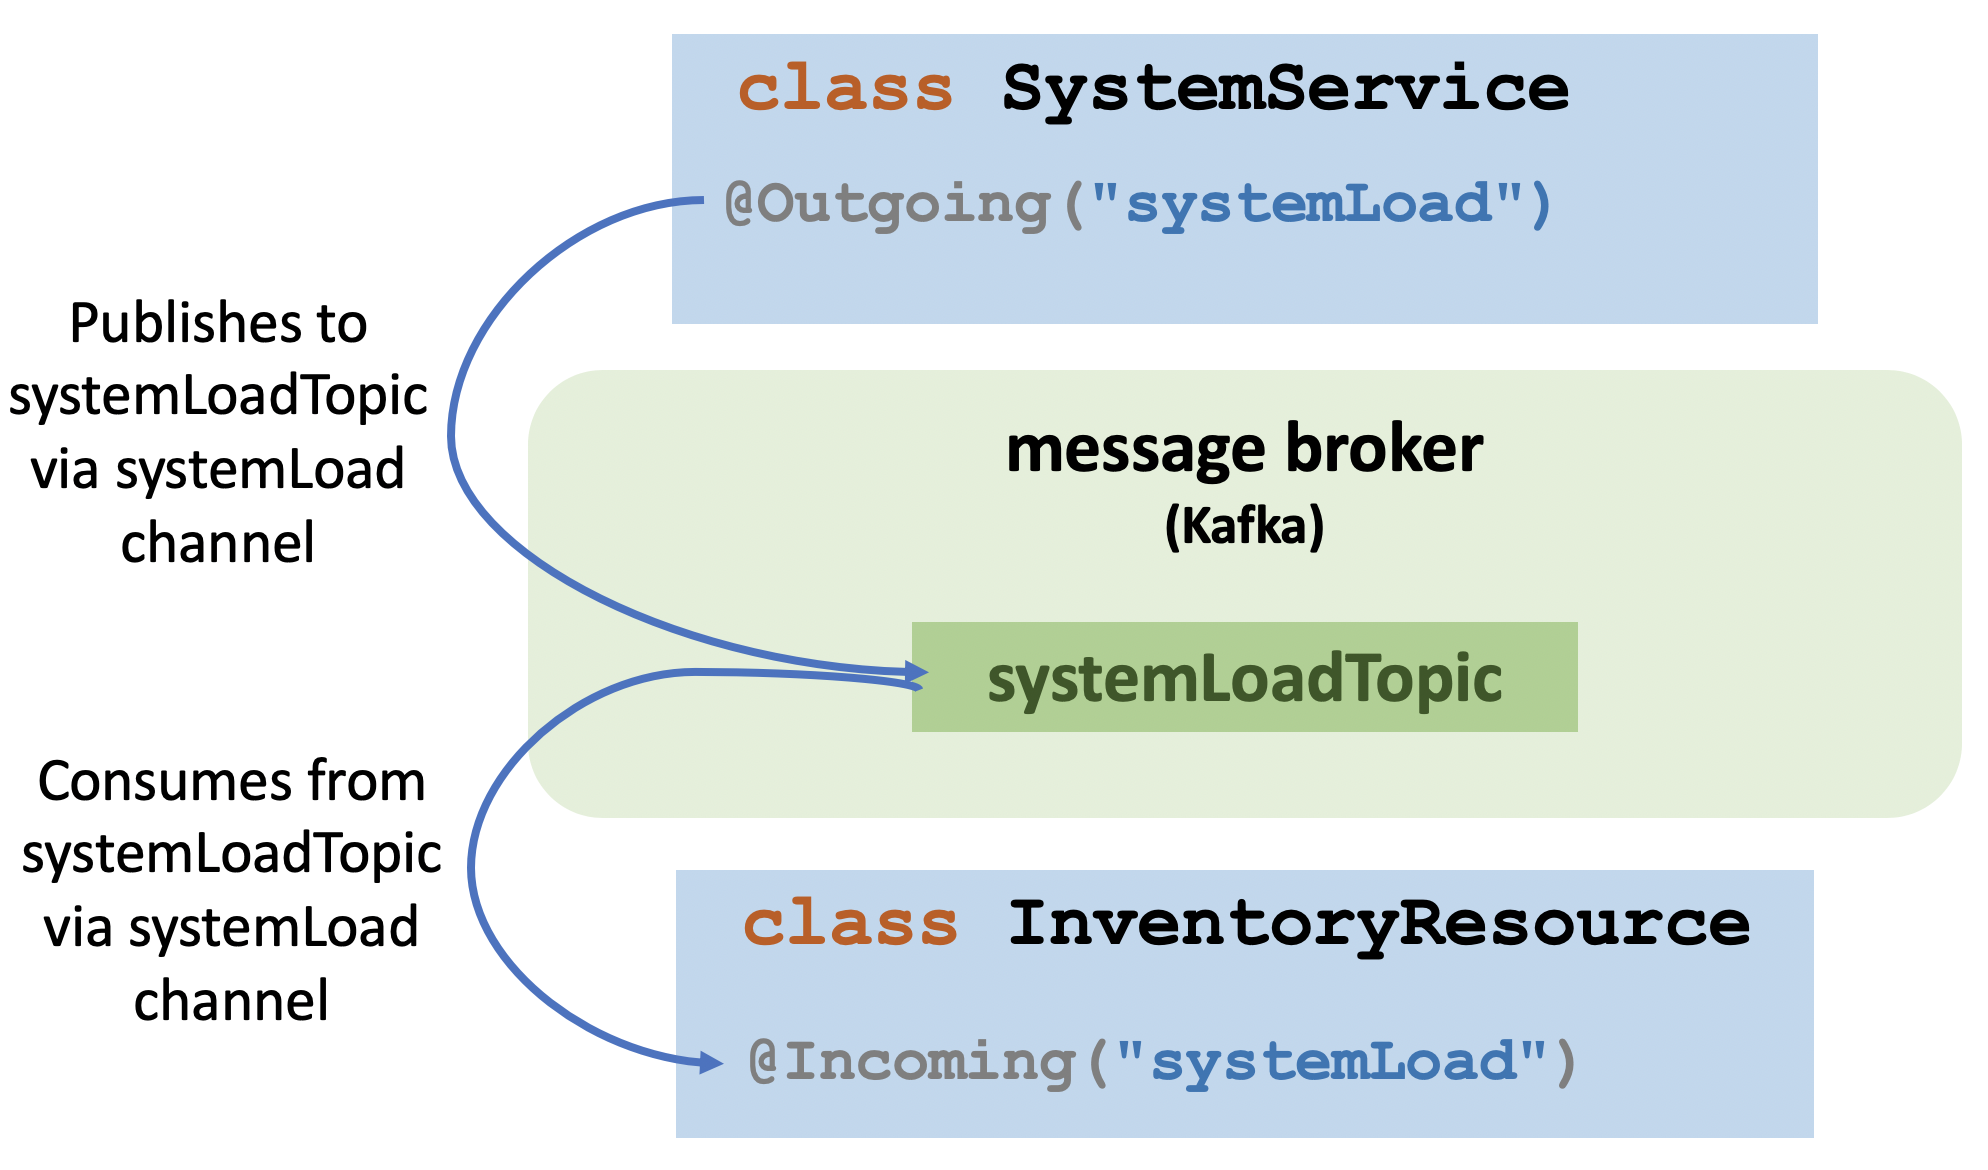
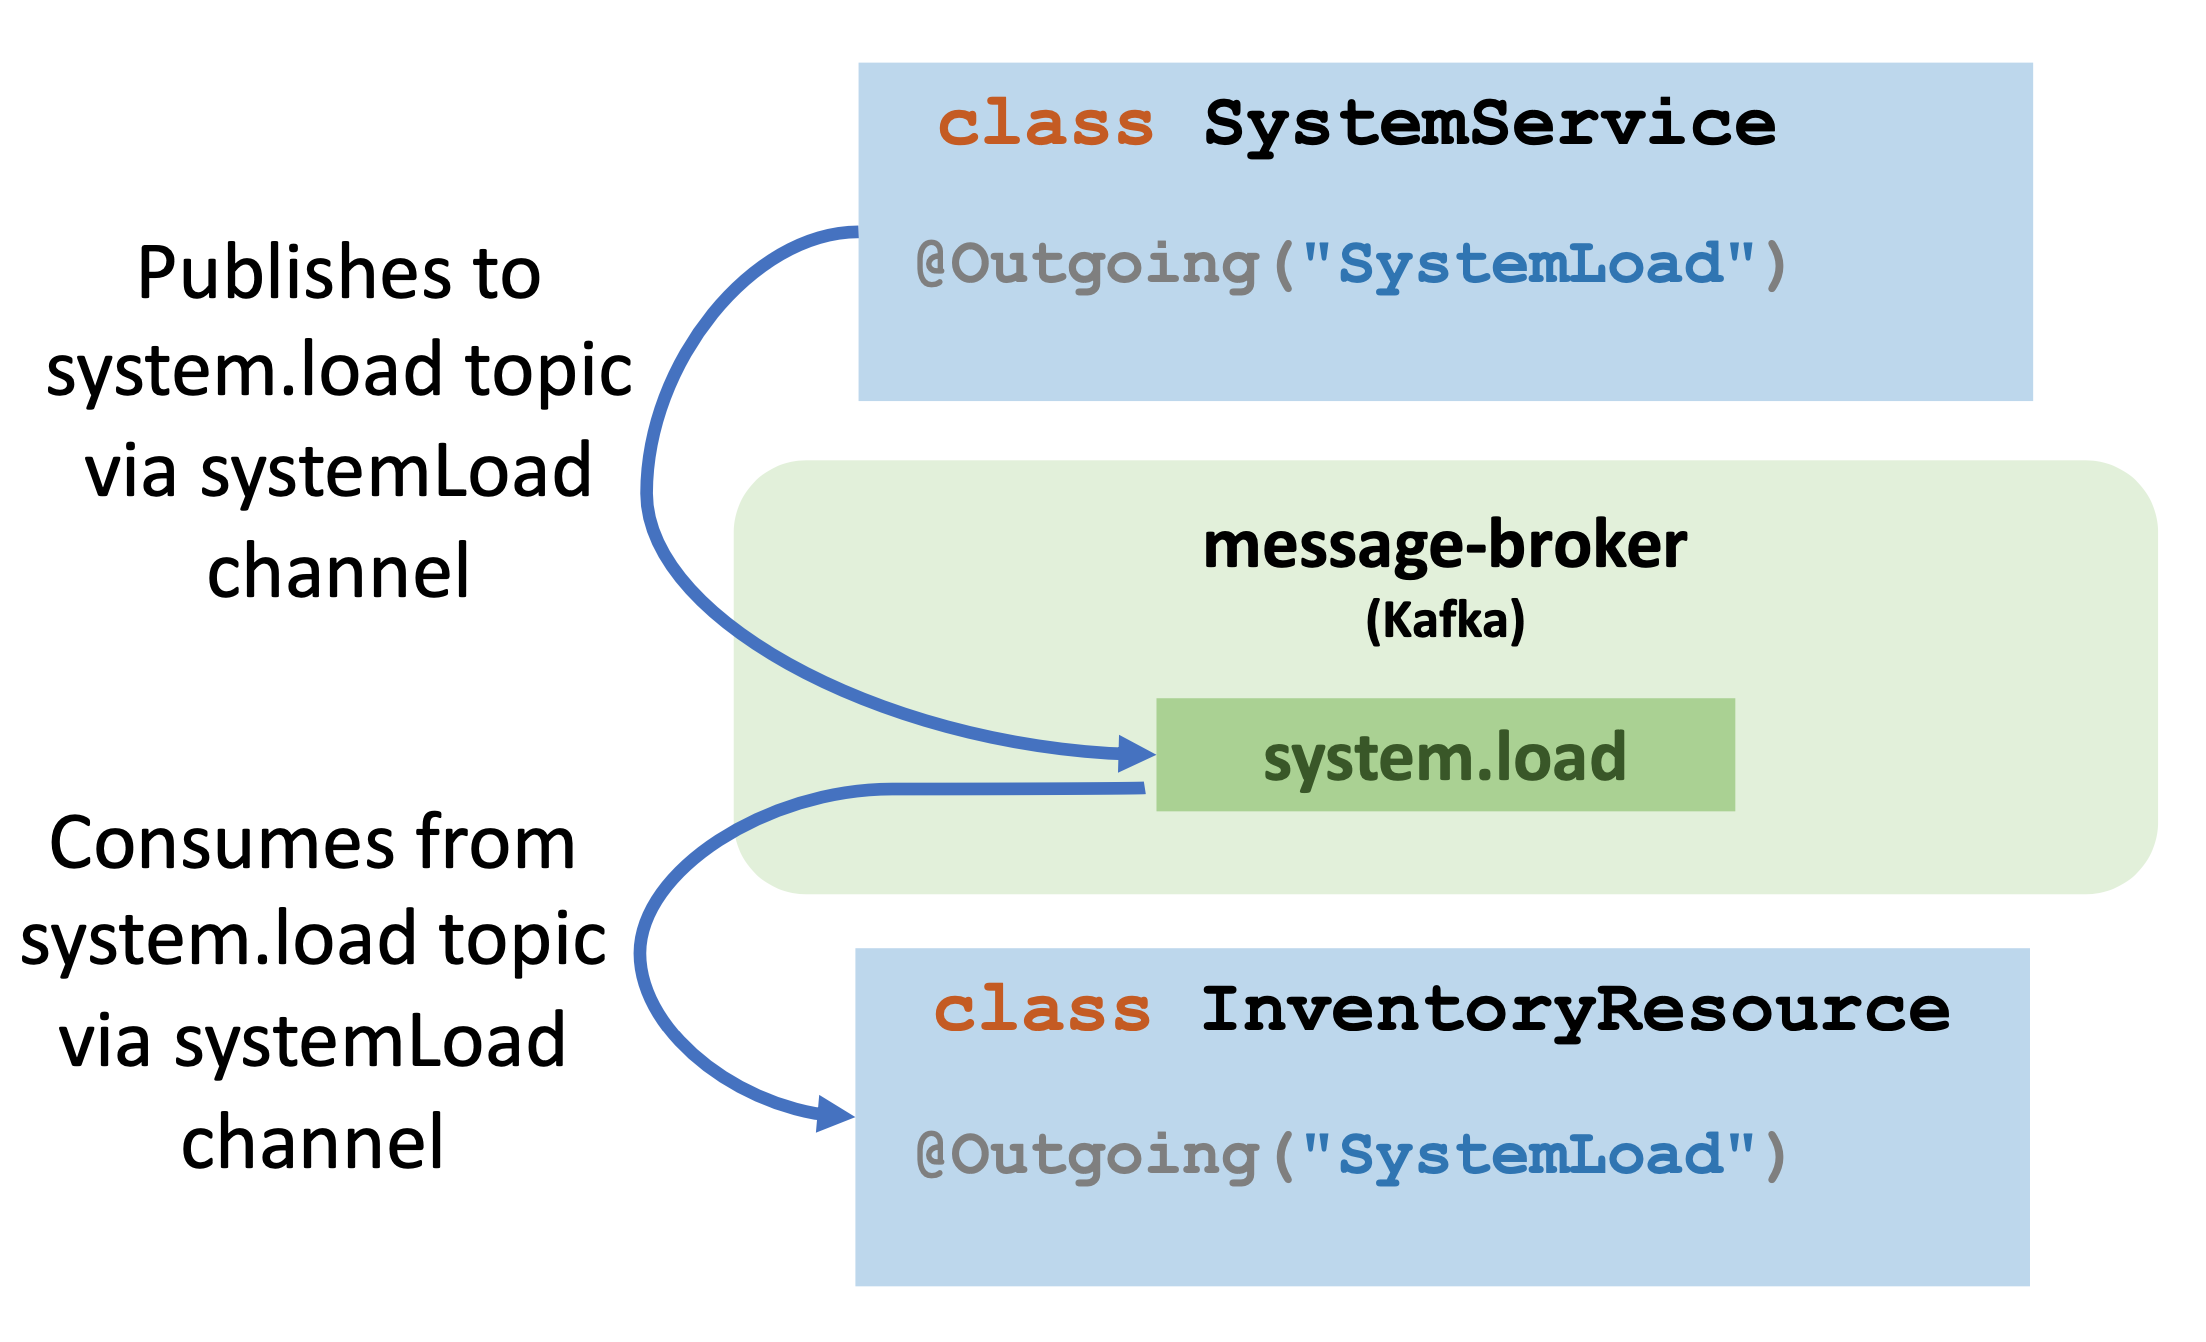
renamed systemLoadTopic to system.load

Changed region(s): [[0.0, 0.0308, 0.998, 0.9846]]

diff --git a/finish/inventory/src/test/java/it/io/openliberty/guides/inventory/InventoryServiceIT.java b/finish/inventory/src/test/java/it/io/openliberty/guides/inventory/InventoryServiceIT.java
@@ -54,7 +54,7 @@ public class InventoryServiceIT {
     @Test
     public void testCpuUsage() throws InterruptedException {
         SystemLoad sl = new SystemLoad("localhost", 1.1);
-        producer.send(new ProducerRecord<String, SystemLoad>("systemLoadTopic", sl));
+        producer.send(new ProducerRecord<String, SystemLoad>("system.load", sl));
         Thread.sleep(5000);
         Response response = inventoryResource.getSystems();
         List<Properties> systems =

diff --git a/start/inventory/src/test/java/it/io/openliberty/guides/inventory/InventoryServiceIT.java b/start/inventory/src/test/java/it/io/openliberty/guides/inventory/InventoryServiceIT.java
@@ -54,7 +54,7 @@ public class InventoryServiceIT {
     @Test
     public void testCpuUsage() throws InterruptedException {
         SystemLoad sl = new SystemLoad("localhost", 1.1);
-        producer.send(new ProducerRecord<String, SystemLoad>("systemLoadTopic", sl));
+        producer.send(new ProducerRecord<String, SystemLoad>("system.load", sl));
         Thread.sleep(5000);
         Response response = inventoryResource.getSystems();
         List<Properties> systems =

diff --git a/finish/system/src/test/java/it/io/openliberty/guides/system/SystemServiceIT.java b/finish/system/src/test/java/it/io/openliberty/guides/system/SystemServiceIT.java
@@ -34,7 +34,7 @@ public class SystemServiceIT {
 
     @KafkaConsumerClient(valueDeserializer = SystemLoadDeserializer.class,
             groupId = "system-load-status",
-            topics = "systemLoadTopic",
+            topics = "system.load",
             properties = ConsumerConfig.AUTO_OFFSET_RESET_CONFIG + "=earliest")
     public static KafkaConsumer<String, SystemLoad> consumer;
 

diff --git a/start/system/src/test/java/it/io/openliberty/guides/system/SystemServiceIT.java b/start/system/src/test/java/it/io/openliberty/guides/system/SystemServiceIT.java
@@ -34,7 +34,7 @@ public class SystemServiceIT {
 
     @KafkaConsumerClient(valueDeserializer = SystemLoadDeserializer.class,
             groupId = "system-load-status",
-            topics = "systemLoadTopic",
+            topics = "system.load",
             properties = ConsumerConfig.AUTO_OFFSET_RESET_CONFIG + "=earliest")
     public static KafkaConsumer<String, SystemLoad> consumer;
 
